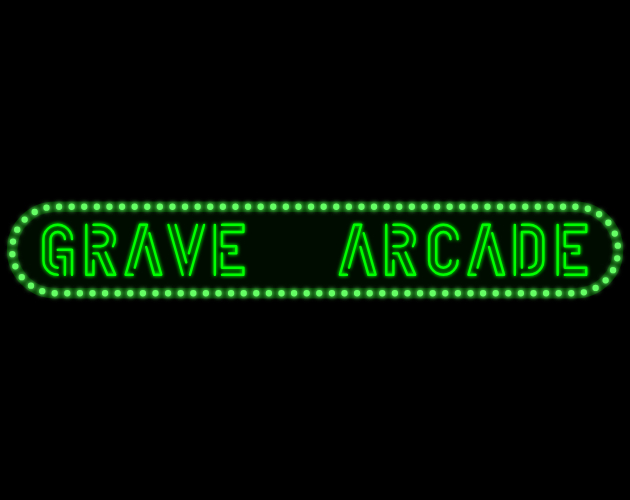
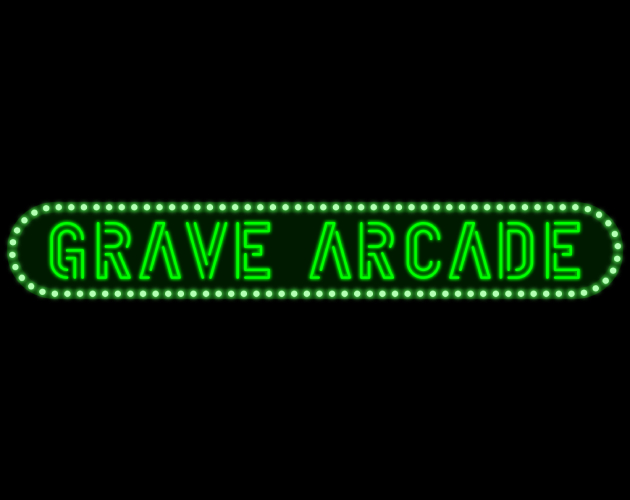
Base Grave Arcade sub-page

Changed region(s): [[0.0302, 0.39, 0.9952, 0.6], [0.0, 0.45, 0.0302, 0.54]]

diff --git a/gravearcade/main.css b/gravearcade/main.css
@@ -1,0 +1,29 @@
+:root {
+    --color-bg: rgb(10,10,10);
+    --color-wrapper: rgb(30,30,30);
+    --color-section: rgb(40,40,40);
+    --color-header: rgb(40,40,40);
+    --color-section-header: rgb(50,50,50);
+    --color-button: rgb(100,100,100);
+}
+
+body {
+    background-color: var(--color-bg);
+    color: white;
+    font-family: sans-serif;
+    text-align: center;
+    justify-content: center;
+    display: grid;
+}
+
+.wrapper {
+    max-width: 1920px;
+    margin: 10px;
+}
+
+header img {
+    width: 100%;
+    max-width: 1200px;
+    height: auto;
+    filter: drop-shadow(0px 0px 5px green);
+}

diff --git a/index.html b/index.html
@@ -167,8 +167,8 @@
                 <hr>
                 <div class="thumbnails">
                     <!--
-                    <a href="">
-                        <img src="images/gravearcade.jpg" alt="GRAVE ARCADE">
+                    <a href="gravearcade/index.html">
+                        <img src="images/game_thumbnails/gravearcade.jpg" alt="GRAVE ARCADE">
                     </a>
                     -->
                     <a href="https://ldjam.com/events/ludum-dare/57/minion-no-1067809362">

diff --git a/gravearcade/index.html b/gravearcade/index.html
@@ -1,0 +1,13 @@
+<!DOCTYPE html>
+<html>
+    <title>GRAVE ARCADE</title>
+    <link rel="stylesheet" href="main.css">
+    <link rel="icon" type="image/png" href="../images/favicon.png">
+</html>
+<body>
+    <div class="wrapper">
+        <header>
+            <img src="images/Logo.png" alt="Logo">
+        </header>
+    </div>
+</body>
